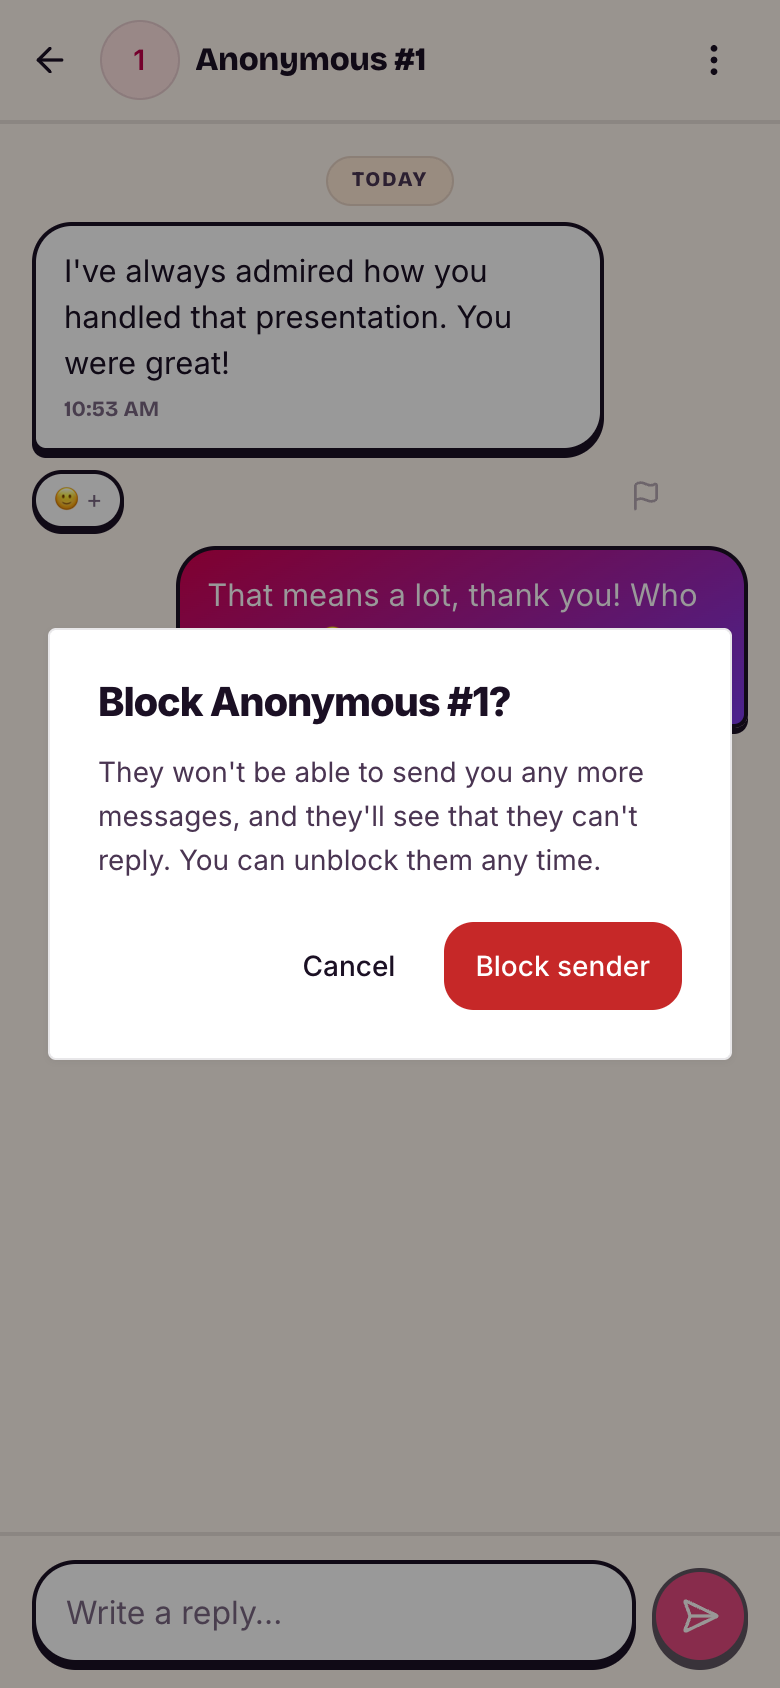
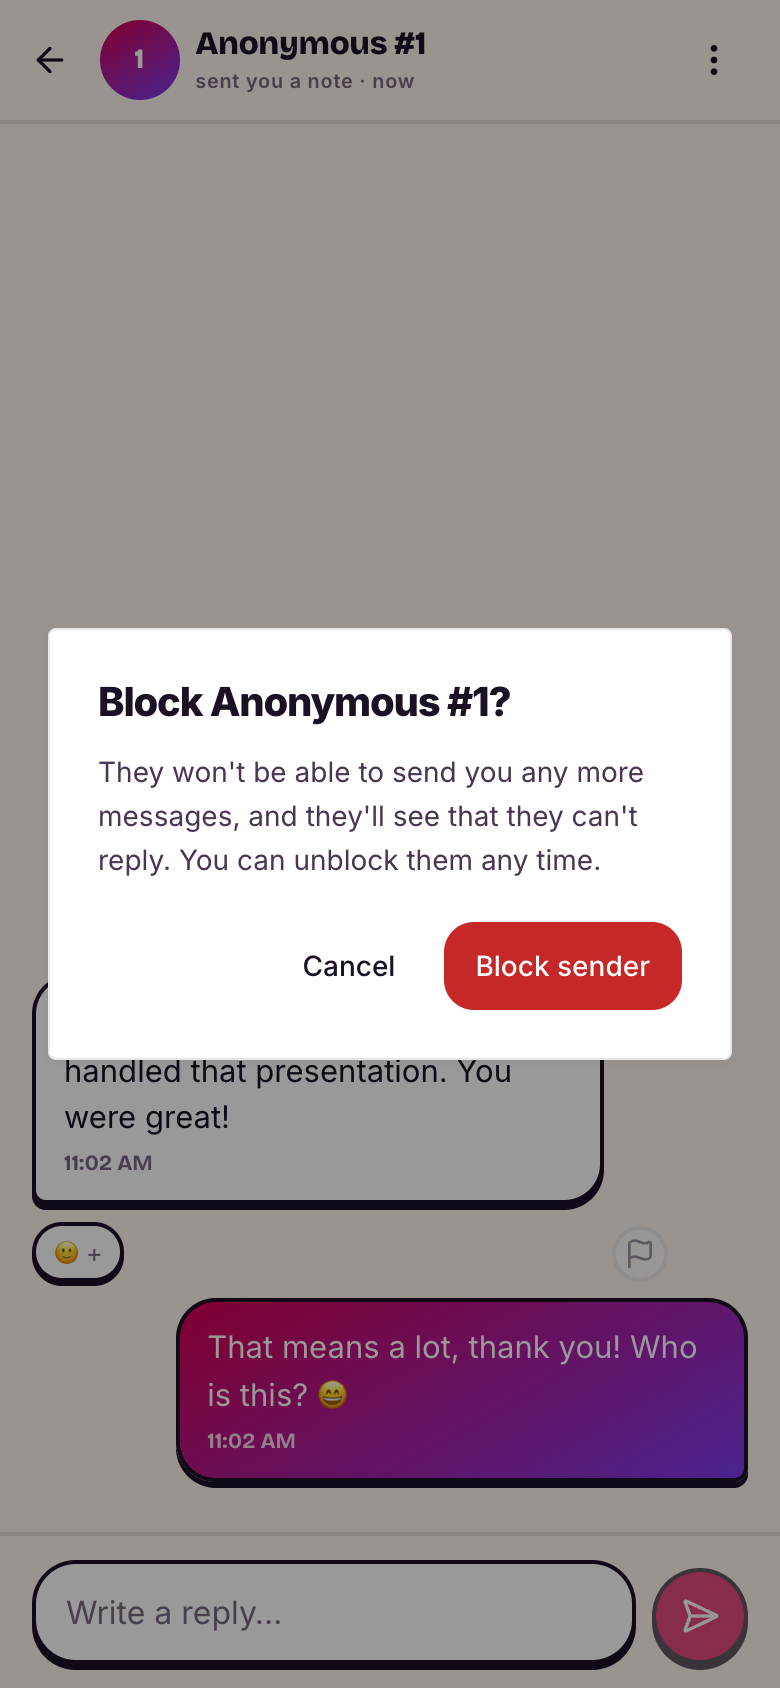
feat(ui): pixel-parity pass on the sticker screens

diff --git a/client/src/features/messaging/ConversationPane.vue b/client/src/features/messaging/ConversationPane.vue
@@ -9,6 +9,7 @@ import {
 } from "vue";
 import { useRouter } from "vue-router";
 import { useQuasar } from "quasar";
+import { useI18n } from "vue-i18n";
 import {
   ArrowLeft,
   EllipsisVertical,
@@ -20,7 +21,7 @@ import { useMessagingStore } from "@/stores/messaging";
 import { useAuthStore } from "@/stores/auth";
 import { useRealtimeStore } from "@/stores/realtime";
 import { usePolling } from "@/composables/usePolling";
-import { dayLabel } from "@/utils/format";
+import { dayLabel, shortTime } from "@/utils/format";
 import AppAvatar from "@/components/AppAvatar.vue";
 import MessageBubble from "@/components/MessageBubble.vue";
 import MessageComposer from "@/components/MessageComposer.vue";
@@ -30,6 +31,7 @@ import ReportDialog from "@/components/ReportDialog.vue";
 const props = defineProps<{ threadId: string; box: "inbox" | "sent" }>();
 
 const $q = useQuasar();
+const { t } = useI18n();
 const router = useRouter();
 const store = useMessagingStore();
 const auth = useAuthStore();
@@ -52,6 +54,15 @@ const title = computed(() => {
 const avatar = computed(() => {
   const t = thread.value;
   return t && "receiver" in t ? t.receiver.avatar_url : null;
+});
+
+const meta = computed(() => {
+  const current = thread.value;
+  const when = current?.last_message_at
+    ? shortTime(current.last_message_at)
+    : "";
+  const label = isInbox.value ? t("thread.noteMeta") : t("thread.replyMeta");
+  return when ? `${label} · ${when}` : label;
 });
 
 const blocked = computed(() => {
@@ -230,7 +241,10 @@ async function submitReport(reason: string) {
         <ArrowLeft :size="20" />
       </q-btn>
       <AppAvatar :name="title || '?'" :src="avatar" :size="40" />
-      <h2 class="title">{{ title }}</h2>
+      <div class="who">
+        <h2 class="title">{{ title }}</h2>
+        <span class="sub">{{ meta }}</span>
+      </div>
 
       <q-btn
         v-if="isInbox"
@@ -390,8 +404,30 @@ async function submitReport(reason: string) {
   background: var(--canvas);
   border-bottom: 2px solid var(--border);
 }
-.title {
+.head :deep(.avatar) {
+  border: 0;
+  background: var(--grad-pink);
+  color: #fff;
+  font-family: var(--font-display);
+  font-weight: 800;
+}
+.who {
   flex: 1;
+  min-width: 0;
+  display: grid;
+  gap: 1px;
+}
+.sub {
+  overflow: hidden;
+  color: var(--text-3);
+  font-family: var(--font-mono, var(--font-sans));
+  font-size: 0.62rem;
+  font-weight: 600;
+  letter-spacing: 0.04em;
+  text-overflow: ellipsis;
+  white-space: nowrap;
+}
+.title {
   min-width: 0;
   overflow: hidden;
   font-family: var(--font-display);
@@ -408,6 +444,8 @@ async function submitReport(reason: string) {
   display: flex;
   flex: 1;
   flex-direction: column;
+  /* A short conversation sits near the composer, like a chat should. */
+  justify-content: flex-end;
   gap: var(--s-4);
   min-height: 0;
   padding: var(--s-4);

diff --git a/client/src/pages/ProfilePage.vue b/client/src/pages/ProfilePage.vue
@@ -263,7 +263,10 @@ async function copyOwn() {
         <AppAvatar :name="profile.name" :src="profile.avatar_url" :size="88" />
         <span class="tape">{{ $t("profile.prompt") }}</span>
       </span>
-      <h1>{{ profile.name }}</h1>
+      <h1>
+        {{ profile.name }}
+        <span class="handle">@{{ profile.username }}</span>
+      </h1>
       <p class="prompt-line">{{ $t("profile.subtitle") }}</p>
     </header>
 
@@ -385,7 +388,7 @@ async function copyOwn() {
   display: grid;
   place-items: center;
   padding: 4px;
-  border: 4px solid var(--surface);
+  border: 5px solid var(--surface);
   border-radius: 50%;
   background: var(--grad-pink);
   box-shadow:
@@ -424,13 +427,20 @@ async function copyOwn() {
   line-height: 1.05;
 }
 .prompt-line {
-  max-width: 28ch;
+  max-width: 40ch;
   color: var(--text-2);
-  font-size: 0.9rem;
+  font-size: 0.82rem;
+}
+.handle {
+  color: var(--text-3);
+  font-family: var(--font-sans);
+  font-size: 0.62em;
+  font-weight: 600;
+  letter-spacing: 0;
 }
 .paper {
   position: relative;
-  padding: 16px 14px 10px;
+  padding: 20px 14px 10px;
   border: 2.5px solid var(--edge);
   border-radius: var(--r-card);
   background: var(--surface);
@@ -446,6 +456,23 @@ async function copyOwn() {
   font: inherit;
   resize: none;
   outline: 0;
+}
+.paper::before {
+  content: "";
+  position: absolute;
+  top: -11px;
+  left: 50%;
+  width: 92px;
+  height: 22px;
+  background: rgba(255, 226, 190, 0.9);
+  border: 1px solid rgba(180, 140, 100, 0.28);
+  box-shadow: 0 1px 3px rgba(27, 16, 36, 0.1);
+  transform: translateX(-50%) rotate(-2deg);
+}
+.paper:focus-within {
+  box-shadow:
+    var(--edge-shadow-sm),
+    0 0 0 3px var(--accent-soft);
 }
 .paper .input::placeholder {
   color: var(--text-3);
@@ -488,8 +515,7 @@ async function copyOwn() {
   padding-bottom: 8px;
 }
 .paper .input:focus-visible {
-  outline: 2px solid var(--accent-text);
-  outline-offset: 1px;
+  outline: 0;
 }
 .help {
   display: flex;

diff --git a/client/src/pages/LinkPage.vue b/client/src/pages/LinkPage.vue
@@ -78,6 +78,14 @@ async function share() {
       <li>{{ $t("link.step1") }}</li>
       <li>{{ $t("link.step2") }}</li>
     </ol>
+
+    <div class="story-row">
+      <div class="story-thumb">{{ $t("link.prompt") }}</div>
+      <div class="story-copy">
+        <b>{{ $t("link.storyTitle") }}</b>
+        <span>{{ $t("link.storyBody") }}</span>
+      </div>
+    </div>
   </main>
 </template>
 
@@ -115,7 +123,7 @@ async function share() {
   padding: 22px 116px 26px 20px;
   border: 2.5px solid var(--edge);
   border-radius: 28px;
-  background: var(--grad-sunset);
+  background: var(--grad-link);
   box-shadow: 0 9px 0 var(--edge);
   color: #fff;
   transform: rotate(-1.2deg);
@@ -206,6 +214,43 @@ async function share() {
   font-size: 0.8rem;
   font-weight: 700;
   counter-increment: step;
+}
+.story-row {
+  display: flex;
+  gap: 12px;
+  align-items: center;
+  margin-top: 2px;
+  padding: 10px 12px;
+  border: 2px solid var(--border);
+  border-radius: var(--r-card);
+  background: var(--surface);
+}
+.story-thumb {
+  flex: none;
+  width: 46px;
+  height: 78px;
+  padding: 7px 5px;
+  border: 2.5px solid var(--edge);
+  border-radius: 11px;
+  background: var(--grad-link);
+  box-shadow: 0 3px 0 var(--edge);
+  color: #fff;
+  font: 800 0.42rem / 1.15 var(--font-display);
+  text-align: center;
+  transform: rotate(-4deg);
+}
+.story-copy {
+  display: grid;
+  gap: 2px;
+}
+.story-copy b {
+  font-family: var(--font-display);
+  font-size: 0.86rem;
+}
+.story-copy span {
+  color: var(--text-3);
+  font-size: 0.7rem;
+  font-weight: 700;
 }
 .steps li::before {
   content: counter(step);

diff --git a/client/src/i18n/en-US/index.ts b/client/src/i18n/en-US/index.ts
@@ -3,6 +3,7 @@ export default {
   app: { name: "Psst" },
 
   nav: {
+    you: "you",
     link: "Link",
     inbox: "Inbox",
     sent: "Sent",
@@ -13,6 +14,8 @@ export default {
   link: {
     title: "your link",
     live: "live",
+    storyTitle: "story card",
+    storyBody: "9:16 · ready to post",
     prompt: "ask me anything",
     hint: "Share this. New messages land in your inbox.",
     step1: "Step 1: Copy your link",
@@ -97,6 +100,8 @@ export default {
     hide: "Hide note",
     hidden: "Hidden. A new note brings it back.",
     guestTitle: "They're still a guest",
+    noteMeta: "sent you a note",
+    replyMeta: "you started this",
     react: "React to this note",
     back: "Back to messages",
     composerLabel: "Reply",

diff --git a/client/src/layouts/AppLayout.vue b/client/src/layouts/AppLayout.vue
@@ -51,7 +51,7 @@ usePolling(
         :aria-label="$t('nav.settings')"
       >
         <span class="ico" aria-hidden="true">⚙</span>
-        {{ $t("nav.settings") }}
+        {{ $t("nav.you") }}
       </router-link>
     </nav>
 
@@ -108,17 +108,17 @@ usePolling(
   text-decoration: none;
 }
 .tab .ico {
-  font-size: 1.05rem;
+  font-family:
+    "Apple Color Emoji", "Segoe UI Emoji", "Noto Color Emoji", sans-serif;
+  font-size: 1.25rem;
   line-height: 1;
-  filter: grayscale(1);
-  opacity: 0.7;
+  opacity: 0.72;
 }
 .tab.is-active {
   background: var(--accent-strong);
   color: #fff;
 }
 .tab.is-active .ico {
-  filter: none;
   opacity: 1;
 }
 .tab:focus-visible {

diff --git a/client/src/components/PromptChips.vue b/client/src/components/PromptChips.vue
@@ -20,7 +20,7 @@ defineEmits<{ pick: [text: string] }>();
 <style scoped lang="scss">
 .chips {
   display: flex;
-  gap: 8px;
+  gap: 6px;
   width: 100%;
   padding: 2px 22px 6px;
   margin-inline: -22px;
@@ -34,14 +34,14 @@ defineEmits<{ pick: [text: string] }>();
 }
 .chip {
   flex: none;
-  min-height: 38px;
-  padding: 0 13px;
+  min-height: 34px;
+  padding: 0 11px;
   border: 2px solid var(--edge);
   border-radius: 999px;
   background: var(--surface);
   box-shadow: 0 3px 0 var(--edge);
   color: var(--text);
-  font: 700 0.8rem / 1 var(--font-sans);
+  font: 700 0.74rem / 1 var(--font-sans);
   cursor: pointer;
   transition:
     transform 120ms var(--ease),

diff --git a/client/src/utils/cardColor.ts b/client/src/utils/cardColor.ts
@@ -14,7 +14,12 @@ export const STORY_GRADIENTS = [
 export const SHARE_GRADIENT =
   "linear-gradient(165deg, #c2185b 0%, #6a1b9a 46%, #283593 100%)";
 
-export function storyGradient(id: string): string {
+/** Pass `tone` (the card's position in the list) so neighbouring notes never share a colour. */
+export function storyGradient(id: string, tone?: number): string {
+  if (tone !== undefined) {
+    return STORY_GRADIENTS[tone % STORY_GRADIENTS.length] ?? STORY_GRADIENTS[0];
+  }
+
   let n = 0;
   for (let i = 0; i < id.length; i++)
     n = (n + id.charCodeAt(i)) % STORY_GRADIENTS.length;

diff --git a/client/src/pages/MessagesPage.vue b/client/src/pages/MessagesPage.vue
@@ -105,12 +105,13 @@ async function hideThread(thread: InboxThread | SentThread) {
         />
 
         <ul v-else class="threads" :key="box">
-          <li v-for="thread in items" :key="thread.id">
+          <li v-for="(thread, index) in items" :key="thread.id">
             <ThreadListItem
               :thread="thread"
               :box="box"
               :active="thread.id === threadId"
               :can-hide="box === 'inbox'"
+              :tone="index"
               @hide="hideThread"
             />
           </li>

diff --git a/client/src/components/ThreadListItem.vue b/client/src/components/ThreadListItem.vue
@@ -12,6 +12,7 @@ const props = withDefaults(
     box: "inbox" | "sent";
     active: boolean;
     canHide?: boolean;
+    tone?: number;
   }>(),
   { canHide: false }
 );
@@ -50,7 +51,7 @@ function onCardClick(event: MouseEvent) {
       :class="{ 'is-unread': unread }"
       :style="{
         '--x': `${offset}px`,
-        '--card': storyGradient(thread.id)
+        '--card': storyGradient(thread.id, tone)
       }"
       :aria-current="active ? 'page' : undefined"
       @click="onCardClick"

diff --git a/client/src/components/MessageBubble.vue b/client/src/components/MessageBubble.vue
@@ -143,8 +143,15 @@ defineEmits<{
 }
 // Quiet until focused or hovered, but always in the DOM and reachable by touch and keyboard.
 .report {
+  width: 28px;
+  height: 28px;
+  min-width: 28px;
+  min-height: 28px;
+  border: 2px solid var(--border);
+  border-radius: 50%;
+  background: var(--surface);
   color: var(--text-3);
-  opacity: 0.55;
+  opacity: 0.7;
   transition: opacity var(--dur) var(--ease);
 }
 .report:hover,

diff --git a/client/src/css/app.scss b/client/src/css/app.scss
@@ -48,6 +48,7 @@
   --grad-pink: linear-gradient(150deg, #d6004f 0%, #7c3aed 100%);
   --grad-ocean: linear-gradient(150deg, #1d4ed8 0%, #0f766e 100%);
   --grad-sunset: linear-gradient(150deg, #c2410c 0%, #9d174d 100%);
+  --grad-link: linear-gradient(150deg, #c2410c 0%, #d6004f 52%, #7c3aed 100%);
 
   --edge-shadow: 0 6px 0 var(--edge);
   --edge-shadow-sm: 0 4px 0 var(--edge);
